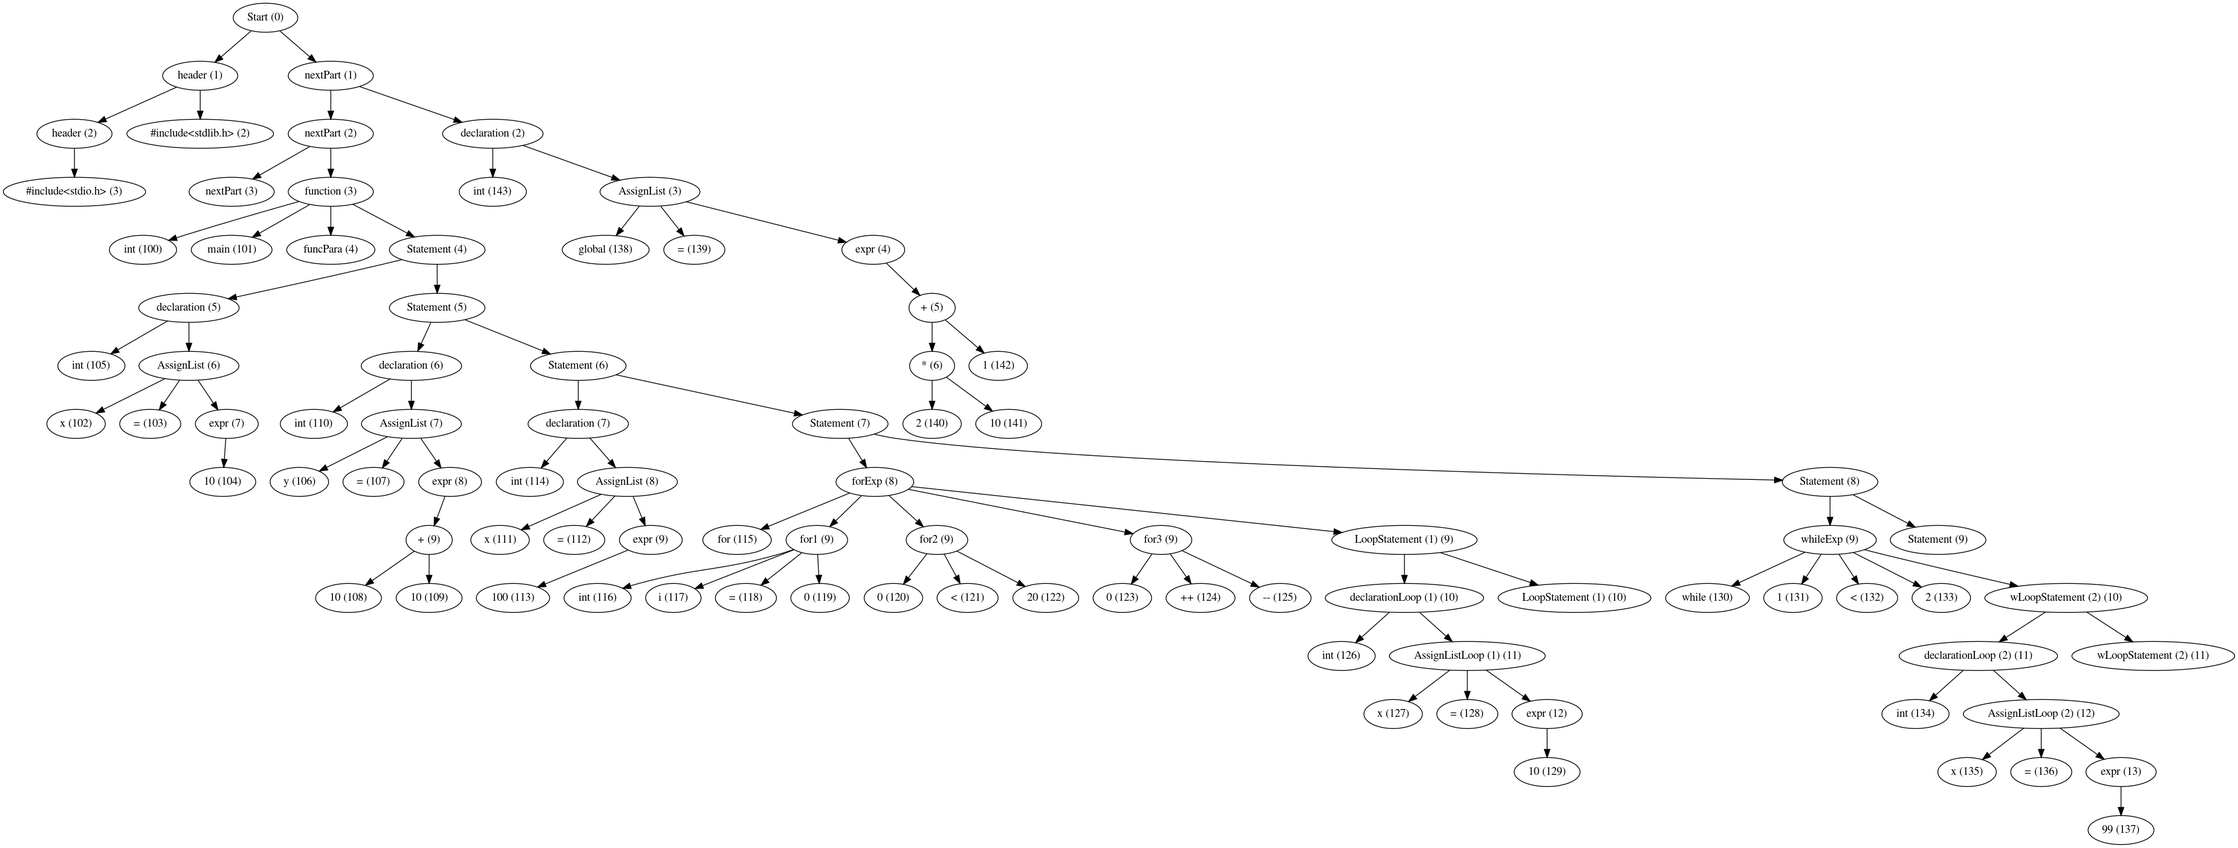
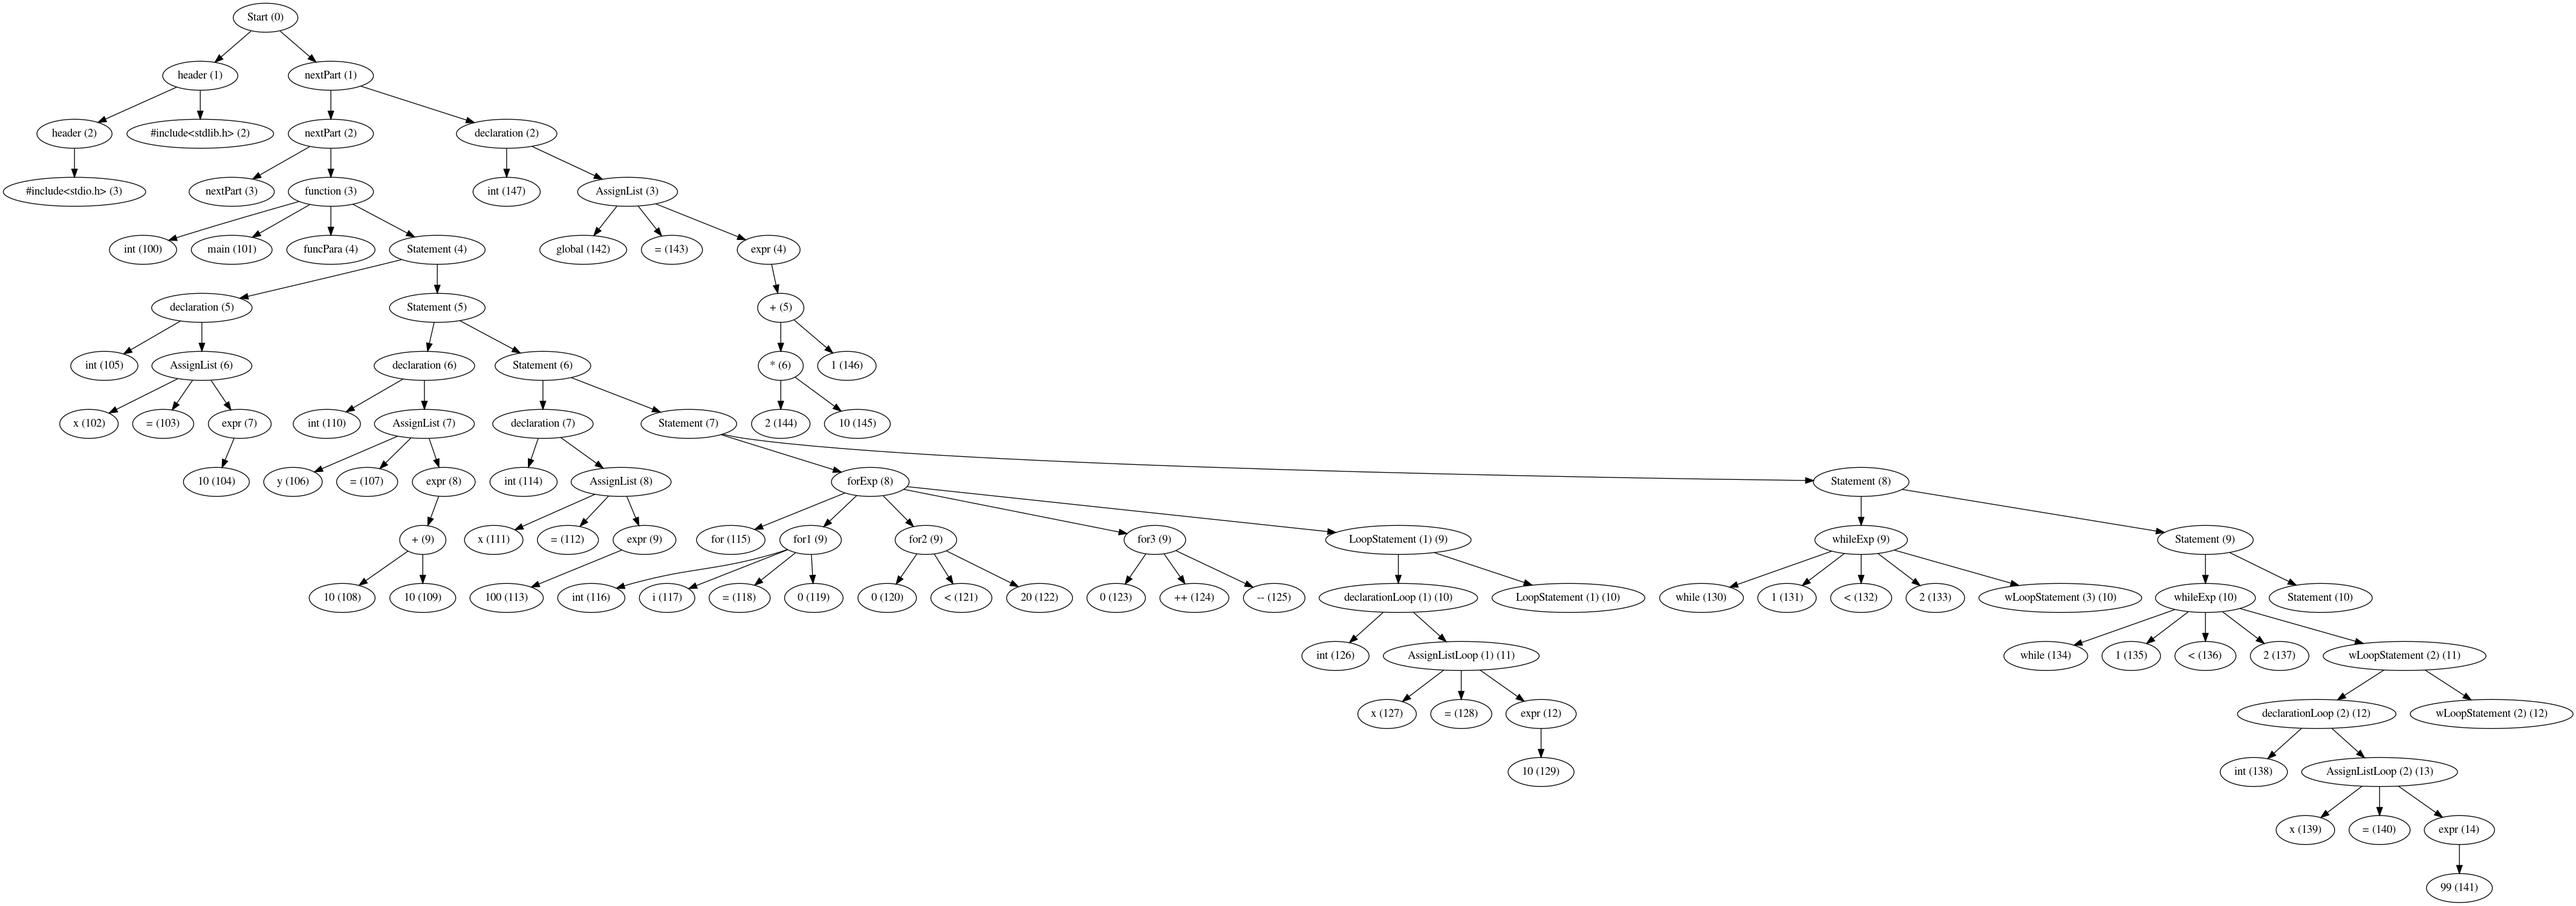
minor changes in assembly

diff --git a/temp/assembly.py b/temp/assembly.py
@@ -6,7 +6,7 @@ Free = [1,1,1,1,1,1,1,1,1,1,1,1,1]
 stack = []
 lines = f.readlines()
 mapR={} #actual : Rnum
-branch = {'<':'BLT', '>':'BGT', '!=':'BNE', '==':"BEQ", '<=':'BLE', '>=':'BGE'}
+branch = {'<=':'BLE', '>=':'BGE','<':'BLT', '>':'BGT', '!=':'BNE', '==':"BEQ"}
 operate ={'*':'MUL', '+':'ADD', '-':'SUB', '/':'DIV'}
 x=1
 
@@ -132,18 +132,24 @@ def unaryOp(part):
     
 if __name__ =="__main__": 
     for line in lines:
+        visit = False;
+        
+        
         if line[:4] == "goto":
             print(getHex() + "\t: B "+line[4:].strip())
         if ':' in line:
             label = line.split(':')
             for i in range(len(label)-1):
                 print(getHex() + "\t: "+label[i].strip() + " : ")
-                
+
+        if ":" in line and 'goto' in line and line.split(':')[1].strip()[:4] == 'goto':
+            print(getHex() + "\t: " + "B "+line.split(':')[1].strip()[4:])
+        
         if "if" in  line:
             start = line.index("(")
             end = line.index(")")
             val1 = line[start+1:end]
-            
+            visit =True
             for i in branch:
                 if i in val1:
                     factor = i
@@ -195,7 +201,7 @@ if __name__ =="__main__":
             ind = line.index("goto")+5
             print(getHex() + "\t: "+branch[factor]+" "+line[ind:].strip())
         #arithmetic opeartion
-        if '=' in line:
+        if '=' in line and visit == False:
             part = line.split('=')
             temp = len(part[1].strip().split(' ')) 
             if temp == 3:
@@ -203,6 +209,7 @@ if __name__ =="__main__":
                 
             elif temp == 1:
                 unaryOp(part)
+    print("SWI 0x11")
                      
             
             

diff --git a/temp/program.c b/temp/program.c
@@ -14,6 +14,9 @@ int main(){
         int x = 99;
     }
     
+    while(1<2){
+    
+    }
 
 }
 
